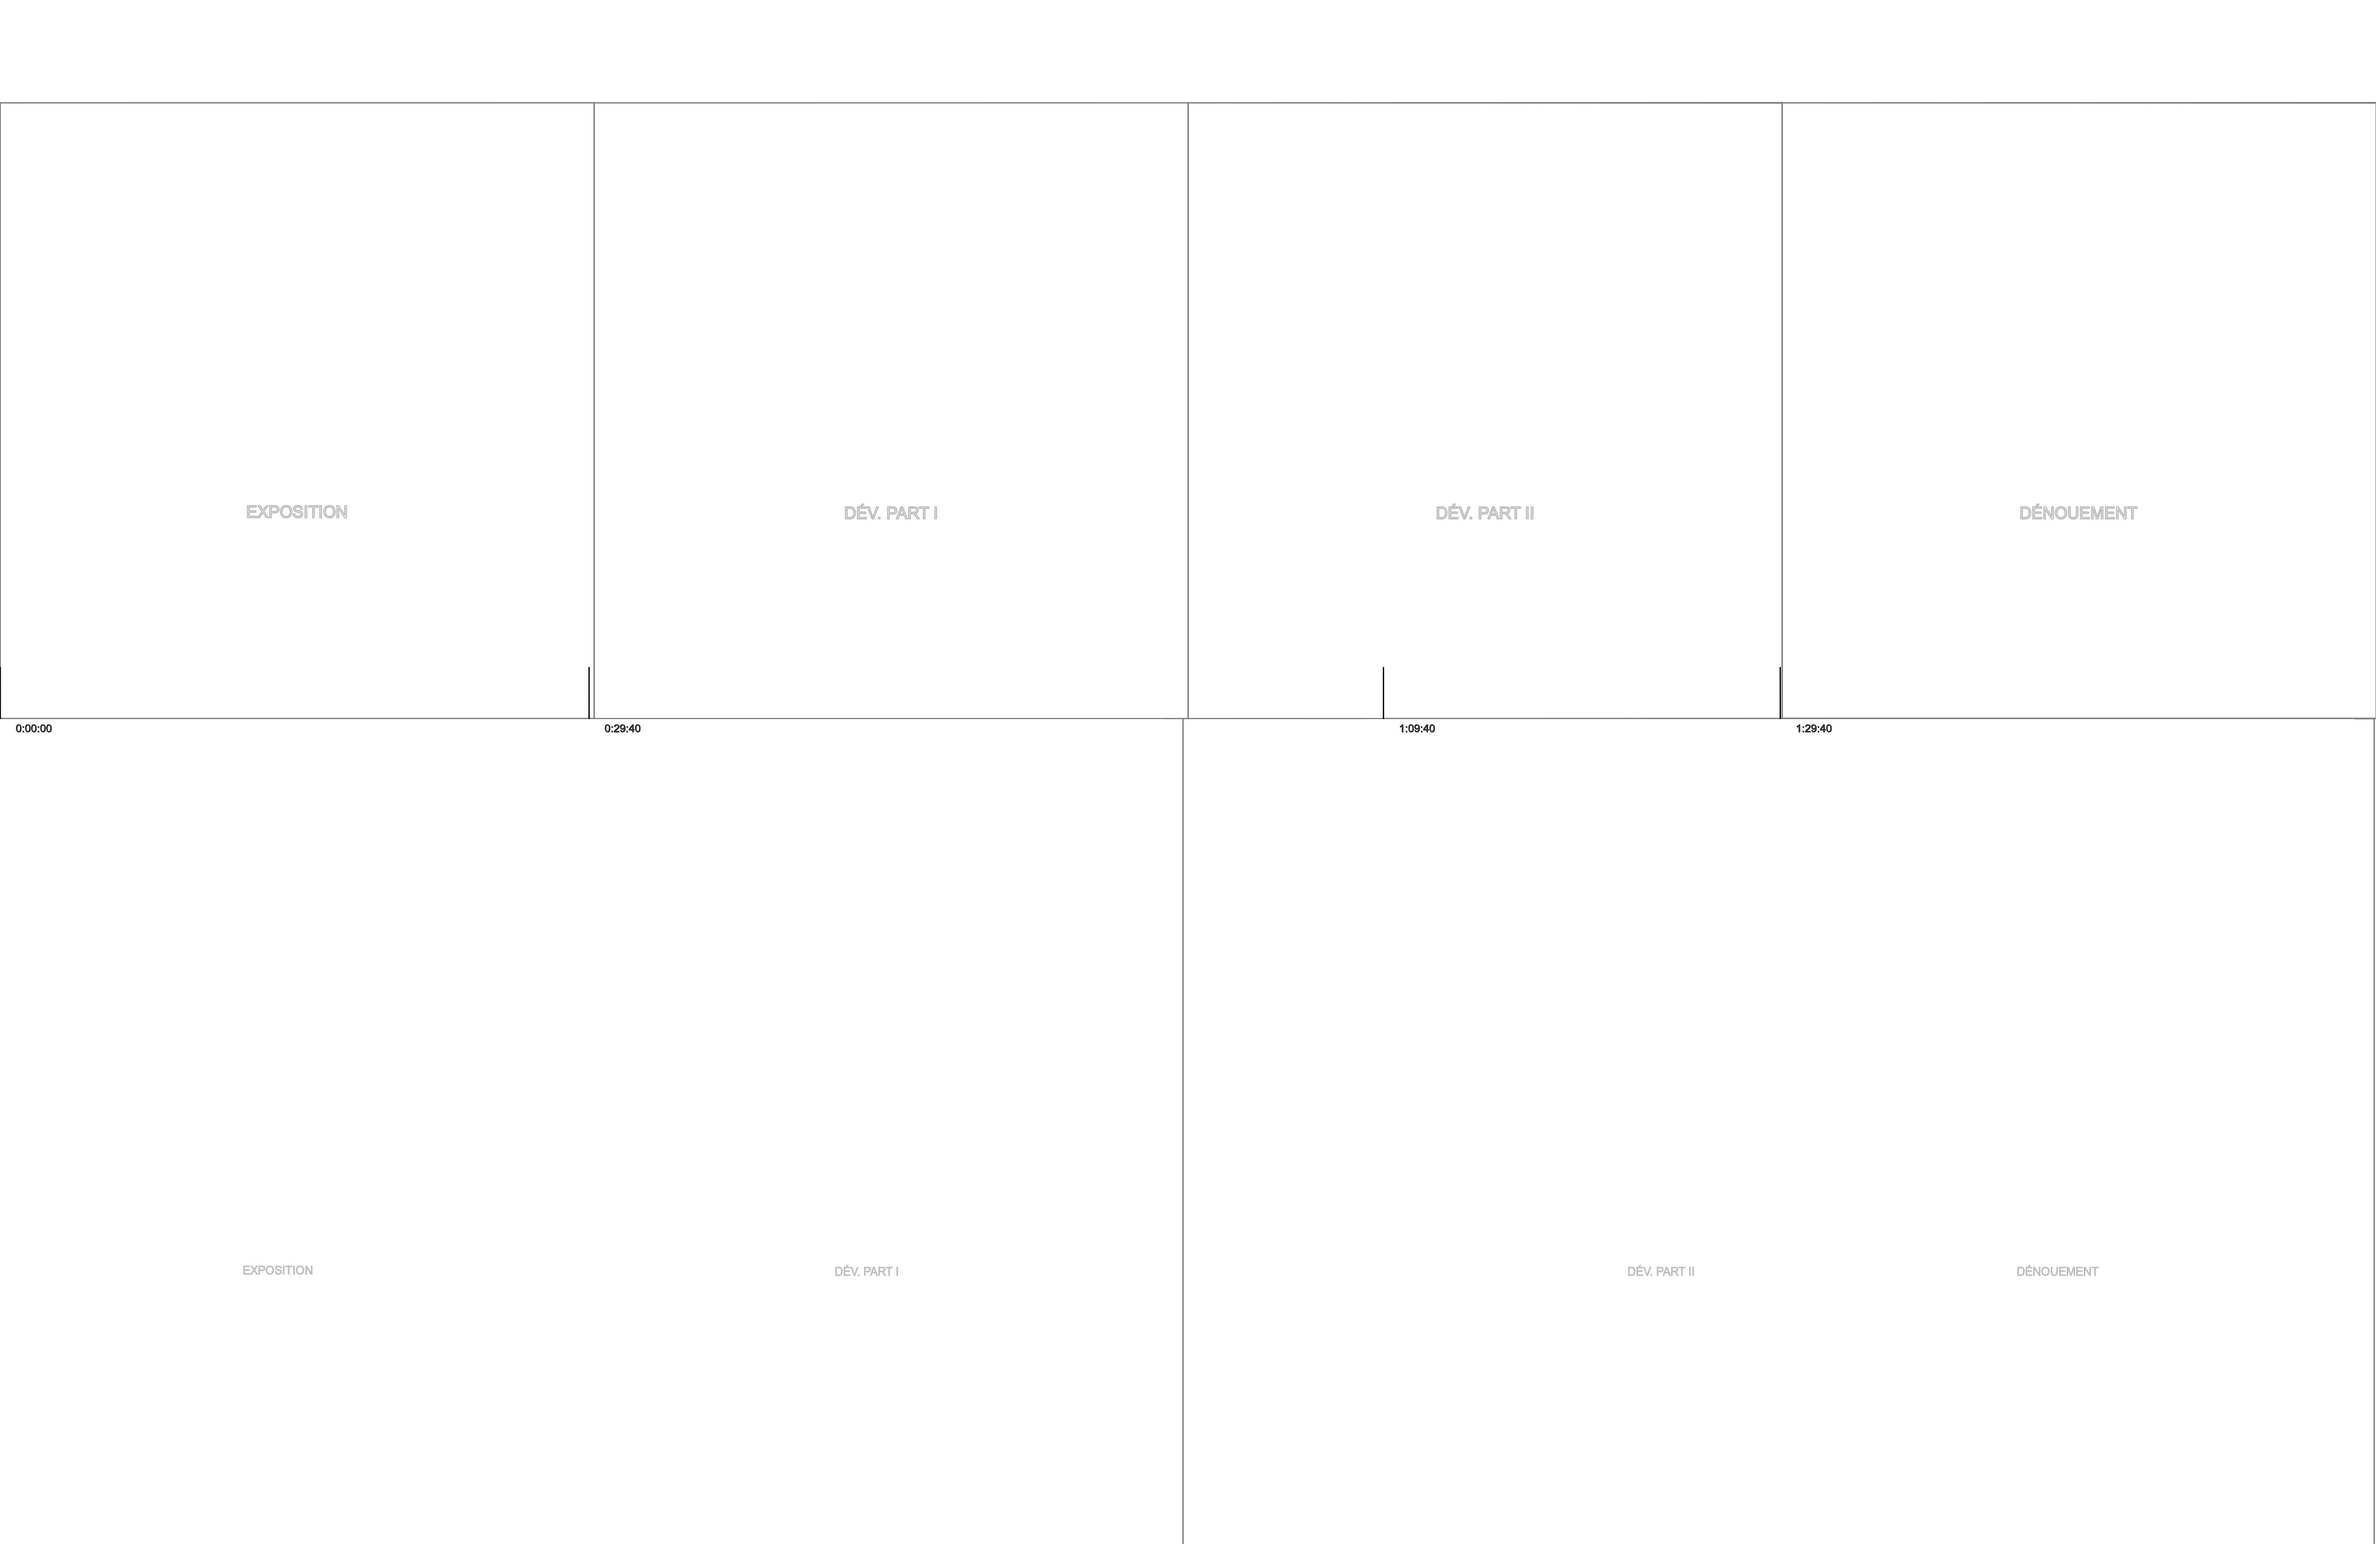
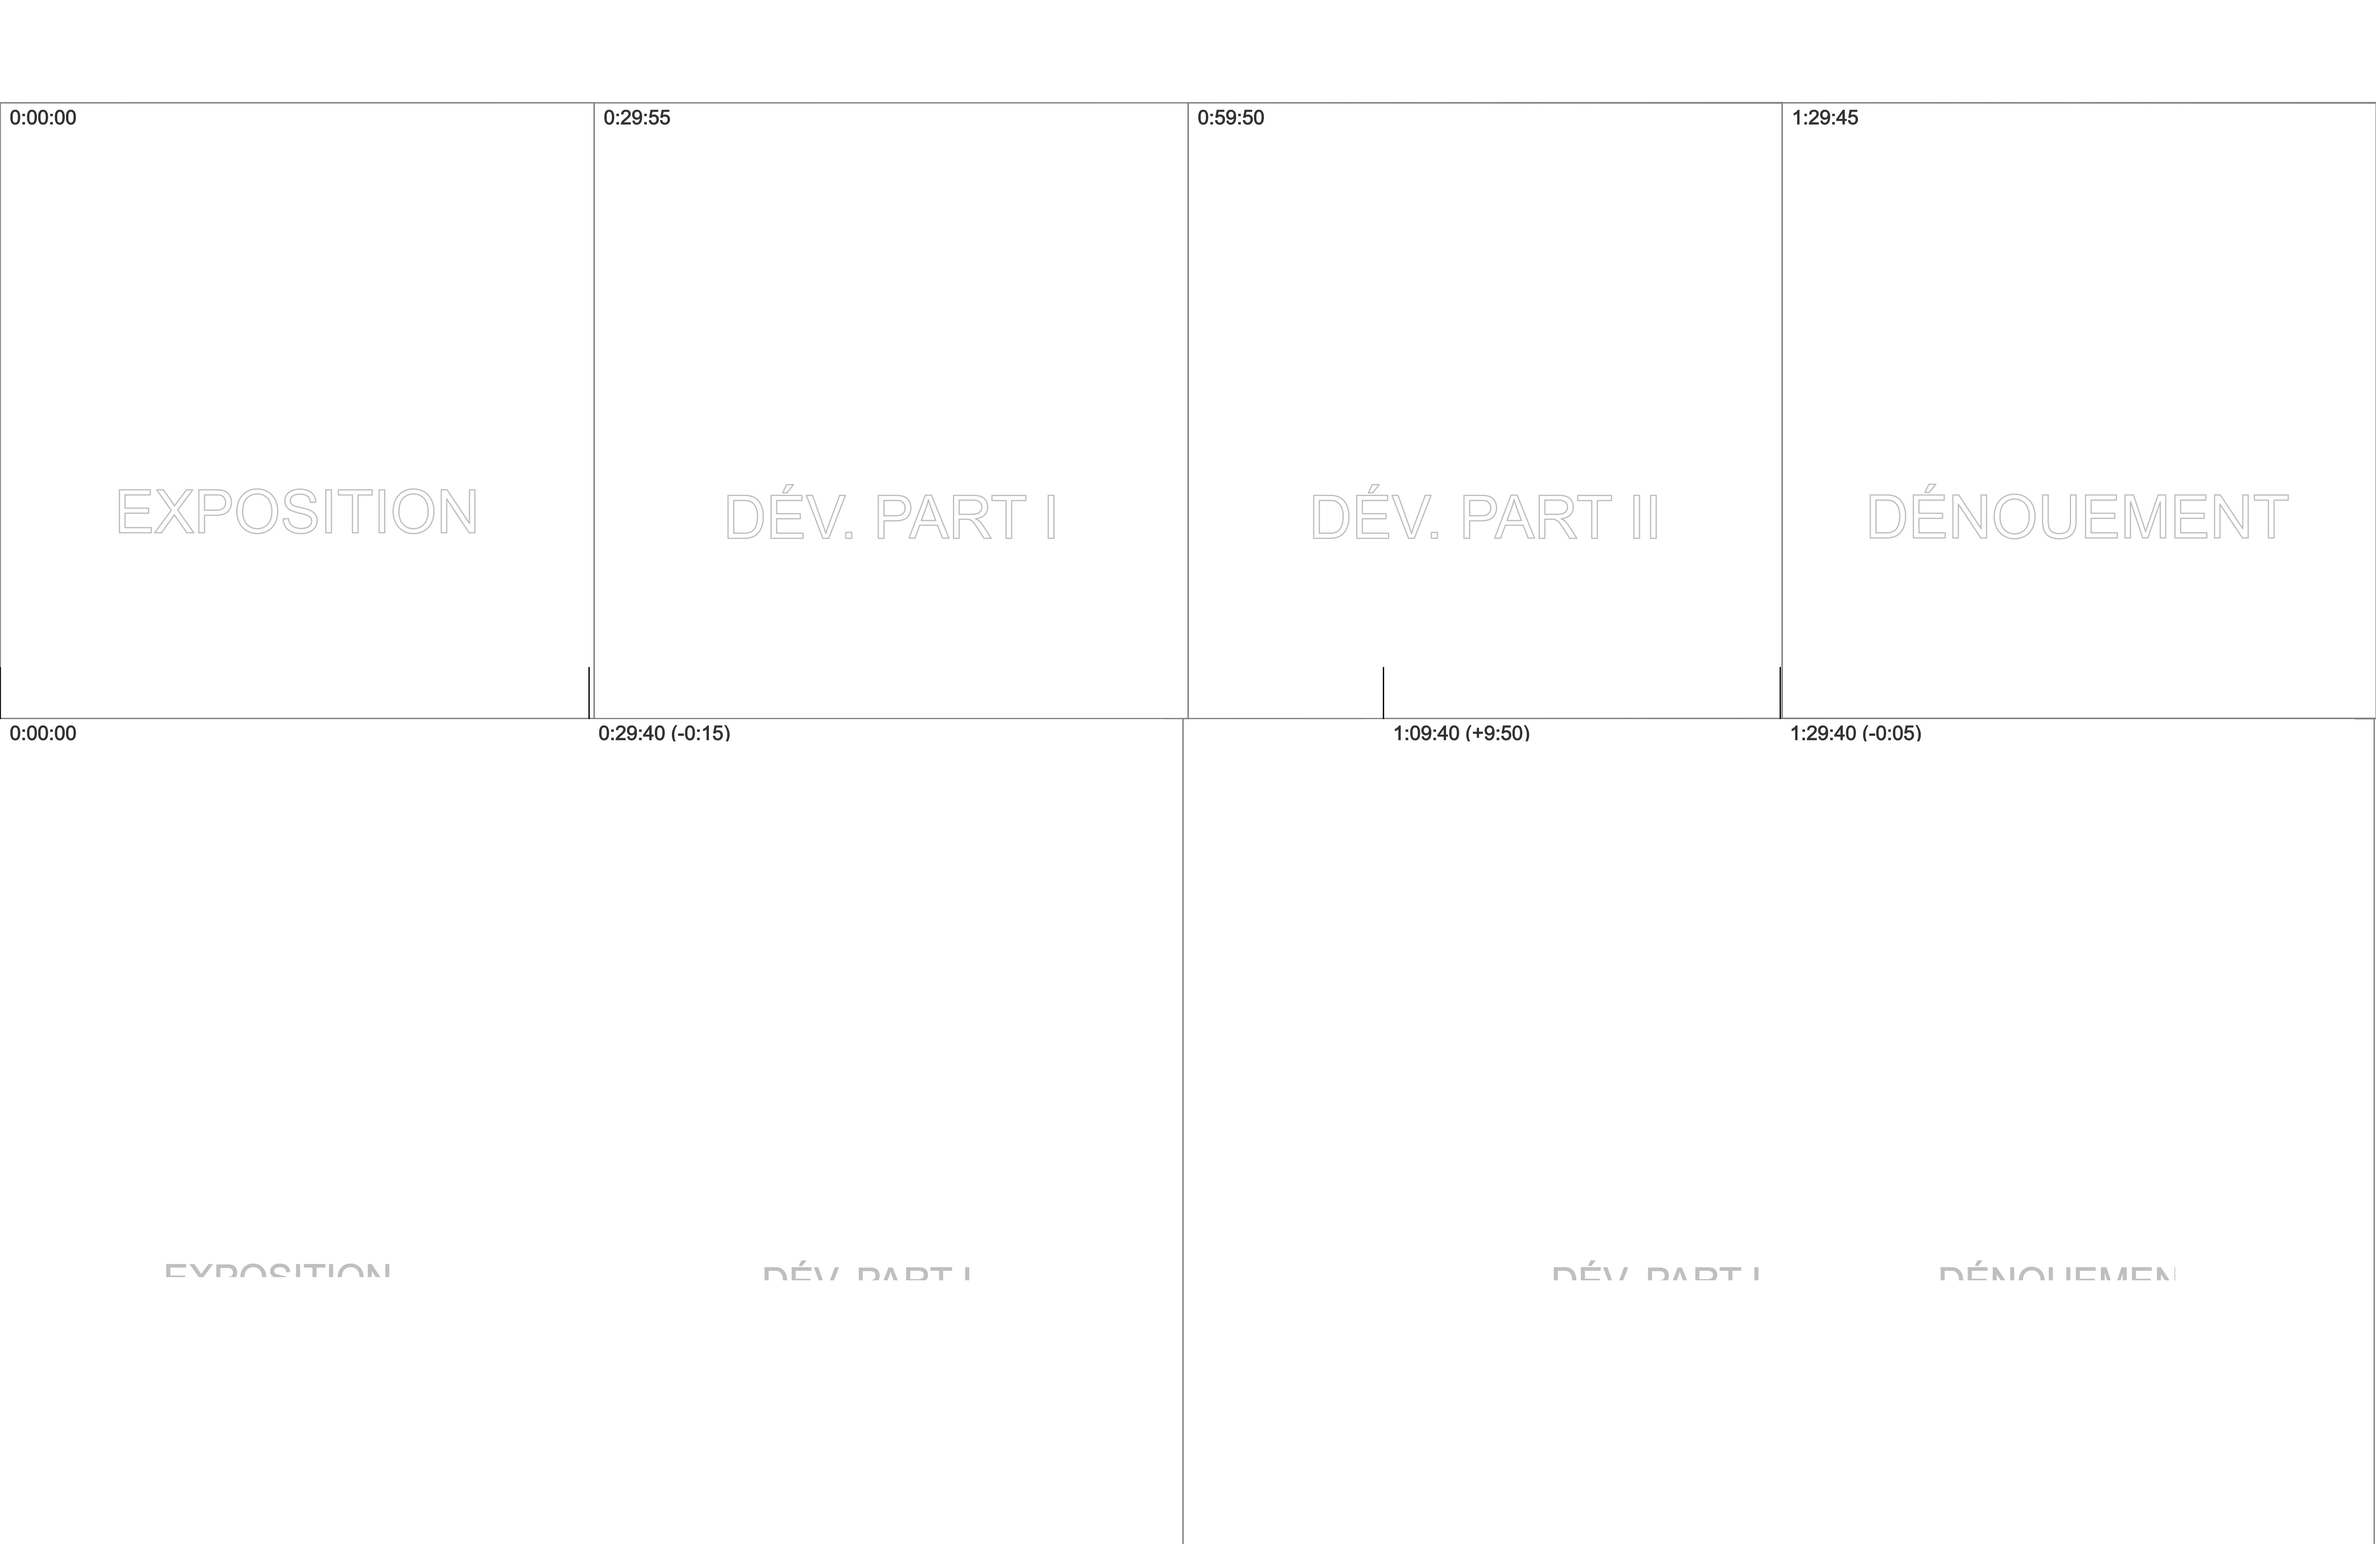
Arrangement des horloges et des fontes

diff --git a/lib/pfa/imagemagick_module.rb b/lib/pfa/imagemagick_module.rb
@@ -44,7 +44,7 @@ module MagickPFA
   #   erreurs éventuelles.
   # 
   def img_draw_command(**options)
-    "\n" + img_draw_command_abs_pfa + "\n" + img_draw_command_rel_pfa
+    "\n" + img_draw_command_abs_pfa + "\n" + img_draw_command_real_pfa
   end
 
   # @return [Array<BashString>] Les lignes pour construire le noeud,
@@ -55,7 +55,7 @@ module MagickPFA
     \\(
     -stroke #{COLORS[type]}
     -strokewidth #{ABS_FONTWEIGHTS[type]}
-    -pointsize #{ABS_FONTSIZES[type]}
+    -pointsize #{abs_font_size}
     -size #{img_abs_surface}
     label:"#{mark}"
     -background none
@@ -66,15 +66,16 @@ module MagickPFA
     -gravity northwest
     -geometry +#{abs_left}-100
     -composite
+    #{abs_start.as_img_horloge_code(self, **{pfa_type: :ideal})}
     CMD
   end
   # -geometry +#{abs_left}+#{abs_top}
 
   # @return [Array<BashString>] Les lignes pour construire le noeud,
   # en version relative (i.e. PFA du film)
-  def img_draw_command_rel_pfa
+  def img_draw_command_real_pfa
     <<~CMD.strip
-    #{send("img_lines_for_rel_#{type}".to_sym)}
+    #{send("img_lines_for_real_#{type}".to_sym)}
     -stroke black
     -strokewidth 3
     -fill black
@@ -85,7 +86,7 @@ module MagickPFA
     -stroke #{COLORS[type]}
     -fill #{COLORS[type]}
     -strokewidth #{FONTWEIGHTS[type]}
-    -pointsize #{FONTSIZES[type]}
+    -pointsize #{font_size}
     label:"#{mark}"
     -size #{img_surface}
     -trim
@@ -95,7 +96,7 @@ module MagickPFA
     -gravity northwest
     -geometry +#{left+2-RECTIFS[:part]}+#{top+2}
     -composite
-    #{start_at.as_img_horloge_code(self)}
+    #{start_at.as_img_horloge_code(self, **{pfa_type: :real, abs_time: abs_start})}
     CMD
   end
 
@@ -112,7 +113,7 @@ module MagickPFA
     CMD
   end
 
-  def img_lines_for_rel_part
+  def img_lines_for_real_part
     # La boite de l'acte réel
     <<~CMD.strip
     -background transparent
@@ -124,6 +125,29 @@ module MagickPFA
   end
 
 
+
+  # La marque pour une séquence (un crochet allongé)
+  def img_lines_for_real_sequence
+    <<~CMD
+    -strokewidth #{AnyBuilder::BORDERS[:seq]}
+    -stroke #{AnyBuilder::COLORS[:seq]}
+    -fill white
+    -draw "polyline #{left+4},#{top+demiheight} #{left+4},#{bottom} #{right-4},#{bottom} #{right-4},#{top+demiheight}"
+    #{mark_horloge}
+    CMD
+  end
+
+  # La marque pour un nœud (un rond/point)
+  def img_lines_for_real_noeud
+    <<~CMD
+    -strokewidth #{AnyBuilder::BORDERS[:noeud]}
+    -stroke #{AnyBuilder::COLORS[:noeud]}
+    -fill white
+    -draw "roundrectangle #{left},#{top} #{right},#{bottom} 10,10"
+    #{mark_horloge}
+    CMD
+  end
+
   RECTIFS = {
     part:         50, 
     sequence:     0, 
@@ -132,16 +156,23 @@ module MagickPFA
 
   #
   # Taille de police en fonction du type de l'élément
+  # (c'est un type proportionnel en fonction de la taille fournie
+  #  cela permet d'ajuster les choses)
   # 
   ABS_FONTSIZES = {
-    part:     10,
-    sequence: 8,
-    noeud:    7
+    part:     2.4,
+    sequence: 1.5,
+    noeud:    1
   }
   FONTSIZES = {
-    part:     7, 
-    sequence: 7, 
-    noeud:    7
+    part:     1.5,
+    sequence: 1.5,
+    noeud:    1
+  }
+  HORLOGE_FONT_SIZES = {
+    part:     0.81,
+    sequence: 0.81,
+    noeud:    0.81,
   }
 
   #

diff --git a/lib/pfa/node_time.rb b/lib/pfa/node_time.rb
@@ -21,7 +21,7 @@ class NTime
   # 
   # @param \Integer zero_offset   Décalage du temps avec zéro
   # 
-  def initialize(foo, zero_offset)
+  def initialize(foo, zero_offset = 0)
     @zero_offset = zero_offset
     case foo
     when Integer    then @secondes = foo
@@ -35,8 +35,30 @@ class NTime
   end
 
 
-  def to_horloge
-    @horloge ||= PFA.s2h(secondes)
+  def as_horloge
+    @to_horloge ||= PFA.s2h(secondes)
+  end
+  alias :to_horloge :as_horloge
+
+  def as_duree
+    @as_duree ||= PFA.s2h(secondes, **{as: :duree})
+  end
+
+  # @return [String] Une horloge qui indique le décalage avec 
+  # la valeur idéale (seulement pour les noeuds relatifs).
+  # 
+  # @param abs_time [PFA::NTime] Le temps absolu
+  # 
+  def as_horloge_with_offset(abs_time)
+    @as_horloge_with_offset ||= begin
+      if self.to_i == abs_time.to_i
+        self.as_horloge
+      else
+        signe   = self > abs_time ? '+' : '-'
+        offset  = self.class.new((abs_time.to_i - self.to_i).abs)
+        "#{self.as_horloge} (#{signe}#{offset.as_duree})" 
+      end
+    end
   end
 
   def to_i
@@ -63,26 +85,27 @@ class NTime
   #     Plus tard, pourra redéfinir :bg_color et :color
   # 
   def as_img_horloge_code(node, **options)
+    for_real = options[:pfa_type] == :real
     <<~CMD.strip
     \\(
     -background #{options[:bg_color]||'transparent'}
     -stroke #{options[:color]||'gray20'}
     -fill #{options[:color]||'gray20'}
     -strokewidth 1
-    -pointsize 6.5
+    -pointsize #{MagickPFA::BASE_FONTSIZE * MagickPFA::HORLOGE_FONT_SIZES[node.type]}
     -size #{surface}
-    -gravity Center
-    label:"#{to_horloge}"
+    -gravity northwest
+    label:"#{for_real ? self.as_horloge_with_offset(options[:abs_time]) : as_horloge}"
     -extent #{surface}
     \\)
     -gravity northwest
-    -geometry +#{node.left}+#{node.top}
+    -geometry +#{node.send(for_real ? :left : :abs_left) + 24}+#{node.send(for_real ? :top : :abs_top) + 8}
     -composite
     CMD
   end
 
   def surface
-    @surface ||= "#{MagickPFA::PFA_WIDTH/35}x50"
+    @surface ||= "#{MagickPFA::PFA_WIDTH/10}x50"
   end
 
   # --- Operation Methods ---

diff --git a/lib/pfa/any_builder.rb b/lib/pfa/any_builder.rb
@@ -29,10 +29,16 @@ class AnyBuilder
   #
   DIMS_CONSTANTS_PER_THING = {
     real_book: {
-      pfa_width: 5976, pfa_height: 3882, pfa_left_margin: 0, pfa_right_margin:0
+      pfa_width: 5976, pfa_height: 3882, pfa_left_margin: 0, pfa_right_margin:0,
+      font_size: 15
     },
     test: {
-      pfa_width: 4000, pfa_height: 2598, pfa_left_margin: 20, pfa_right_margin:20
+      pfa_width: 4000, pfa_height: 2598, pfa_left_margin: 20, pfa_right_margin:20,
+      font_size: 15
+    },
+    default: {
+      pfa_width: 4000, pfa_height: 2598, pfa_left_margin: 20, pfa_right_margin:20,
+      font_size: 15
     },
   }
 
@@ -57,7 +63,16 @@ class AnyBuilder
     params = nil
     case key_thing
     when Symbol then params = DIMS_CONSTANTS_PER_THING[key_thing]
-    when Hash   then params = key_thing
+    when Hash
+      #
+      # Table fournie
+      # (dans ce cas, il faut vérifier les valeurs et mettre les
+      #  valeurs par défaut des valeurs manquantes)
+      # 
+      params = key_thing
+      DIMS_CONSTANTS_PER_THING[:default].each do |key, value|
+        params.key?(key) || params.merge!(key => value)
+      end
     else raise PFAFatalError.new(101)
     end
 
@@ -120,6 +135,17 @@ class AnyBuilder
       sequence: 50, # PFA::LINE_HEIGHT (dans fichier relatif)
       noeud:    50  # idem
     })
+
+    #
+    # Taille de fonte de base. Elle correspond à la grosseur
+    # des séquences
+    # 
+    # @todo
+    #   Plus tard, on pourra modifier aussi les proportions de
+    #   chaque taille de partie
+    # 
+    rem_const_if_exists('BASE_FONTSIZE') # tests
+    MagickPFA.const_set('BASE_FONTSIZE', params[:font_size])
 
   end # define_dims_constants
 

diff --git a/lib/pfa/relative_pfa_node.rb b/lib/pfa/relative_pfa_node.rb
@@ -18,30 +18,6 @@ class Node
   end
 
 
-
-
-  # La marque pour une séquence (un crochet allongé)
-  def img_lines_for_sequence
-    <<~CMD
-    -strokewidth #{AnyBuilder::BORDERS[:seq]}
-    -stroke #{AnyBuilder::COLORS[:seq]}
-    -fill white
-    -draw "polyline #{left+4},#{top+demiheight} #{left+4},#{bottom} #{right-4},#{bottom} #{right-4},#{top+demiheight}"
-    #{mark_horloge}
-    CMD
-  end
-
-  # La marque pour un nœud (un rond/point)
-  def img_lines_for_noeud
-    <<~CMD
-    -strokewidth #{AnyBuilder::BORDERS[:noeud]}
-    -stroke #{AnyBuilder::COLORS[:noeud]}
-    -fill white
-    -draw "roundrectangle #{left},#{top} #{right},#{bottom} 10,10"
-    #{mark_horloge}
-    CMD
-  end
-
   # --- MÉTHODES TEMPORELLES ---
 
   # -- Temps relatifs --
@@ -116,6 +92,10 @@ class Node
     @img_abs_surface ||= "#{abs_width}x#{abs_height}"
   end
 
+  def abs_font_size
+    @abs_font_size ||= MagickPFA::BASE_FONTSIZE * MagickPFA::ABS_FONTSIZES[type]
+  end
+
   # -- Dimensions Relatives --
 
   def left
@@ -145,6 +125,10 @@ class Node
 
   def img_surface
     @img_surface ||= "#{width}x#{height}"
+  end
+
+  def font_size
+    @font_size ||= MagickPFA::BASE_FONTSIZE * MagickPFA::FONTSIZES[type]
   end
 
 

diff --git a/lib/pfa/temporal_methods.rb b/lib/pfa/temporal_methods.rb
@@ -33,13 +33,29 @@ module PFA
 
   # Reçoit un nombre de secondes \Integer et retourne une horloge
   # au format 'H:MM:SS'
-  def self.s2h(secondes)
+  # Si +options[:as]+ = :duree, on renvoie une version durée, 
+  # c'est-à-dire avec les heures, et les minutes sur deux chiffres
+  # seulement s'il y a des heures.
+  def self.s2h(secondes, **options)
     secondes.is_a?(Integer) || raise(PFAFatalError.new(51), **{value: "#{secondes.inspect}::#{secondes.class}"})
     h = secondes / 3600
     r = secondes % 3600
     m = r / 60
     s = r % 60
-    "#{h}:" + [m,s].collect{|n|n.to_s.rjust(2,'0')}.join(':')
+    if options[:as] == :duree
+      # -- Version durée --
+      # (on ne met les heures que si elles sont définies)
+      segs = []
+      segs << "#{h}" if h > 0
+      m = m.to_s.rjust(2,'0') if h > 0
+      segs << "#{m}"
+      segs << s.to_s.rjust(2,'0')
+      segs.join(':') # => "1:02:54" ou "2:45"
+    else
+      # -- Version horloge normale --
+      # (toujours avec les heures)
+      "#{h}:" + [m,s].collect{|n|n.to_s.rjust(2,'0')}.join(':')
+    end
   end
 
   # Reçoit un temps \Time et retourne une horloge 'H:MM:SS' 
